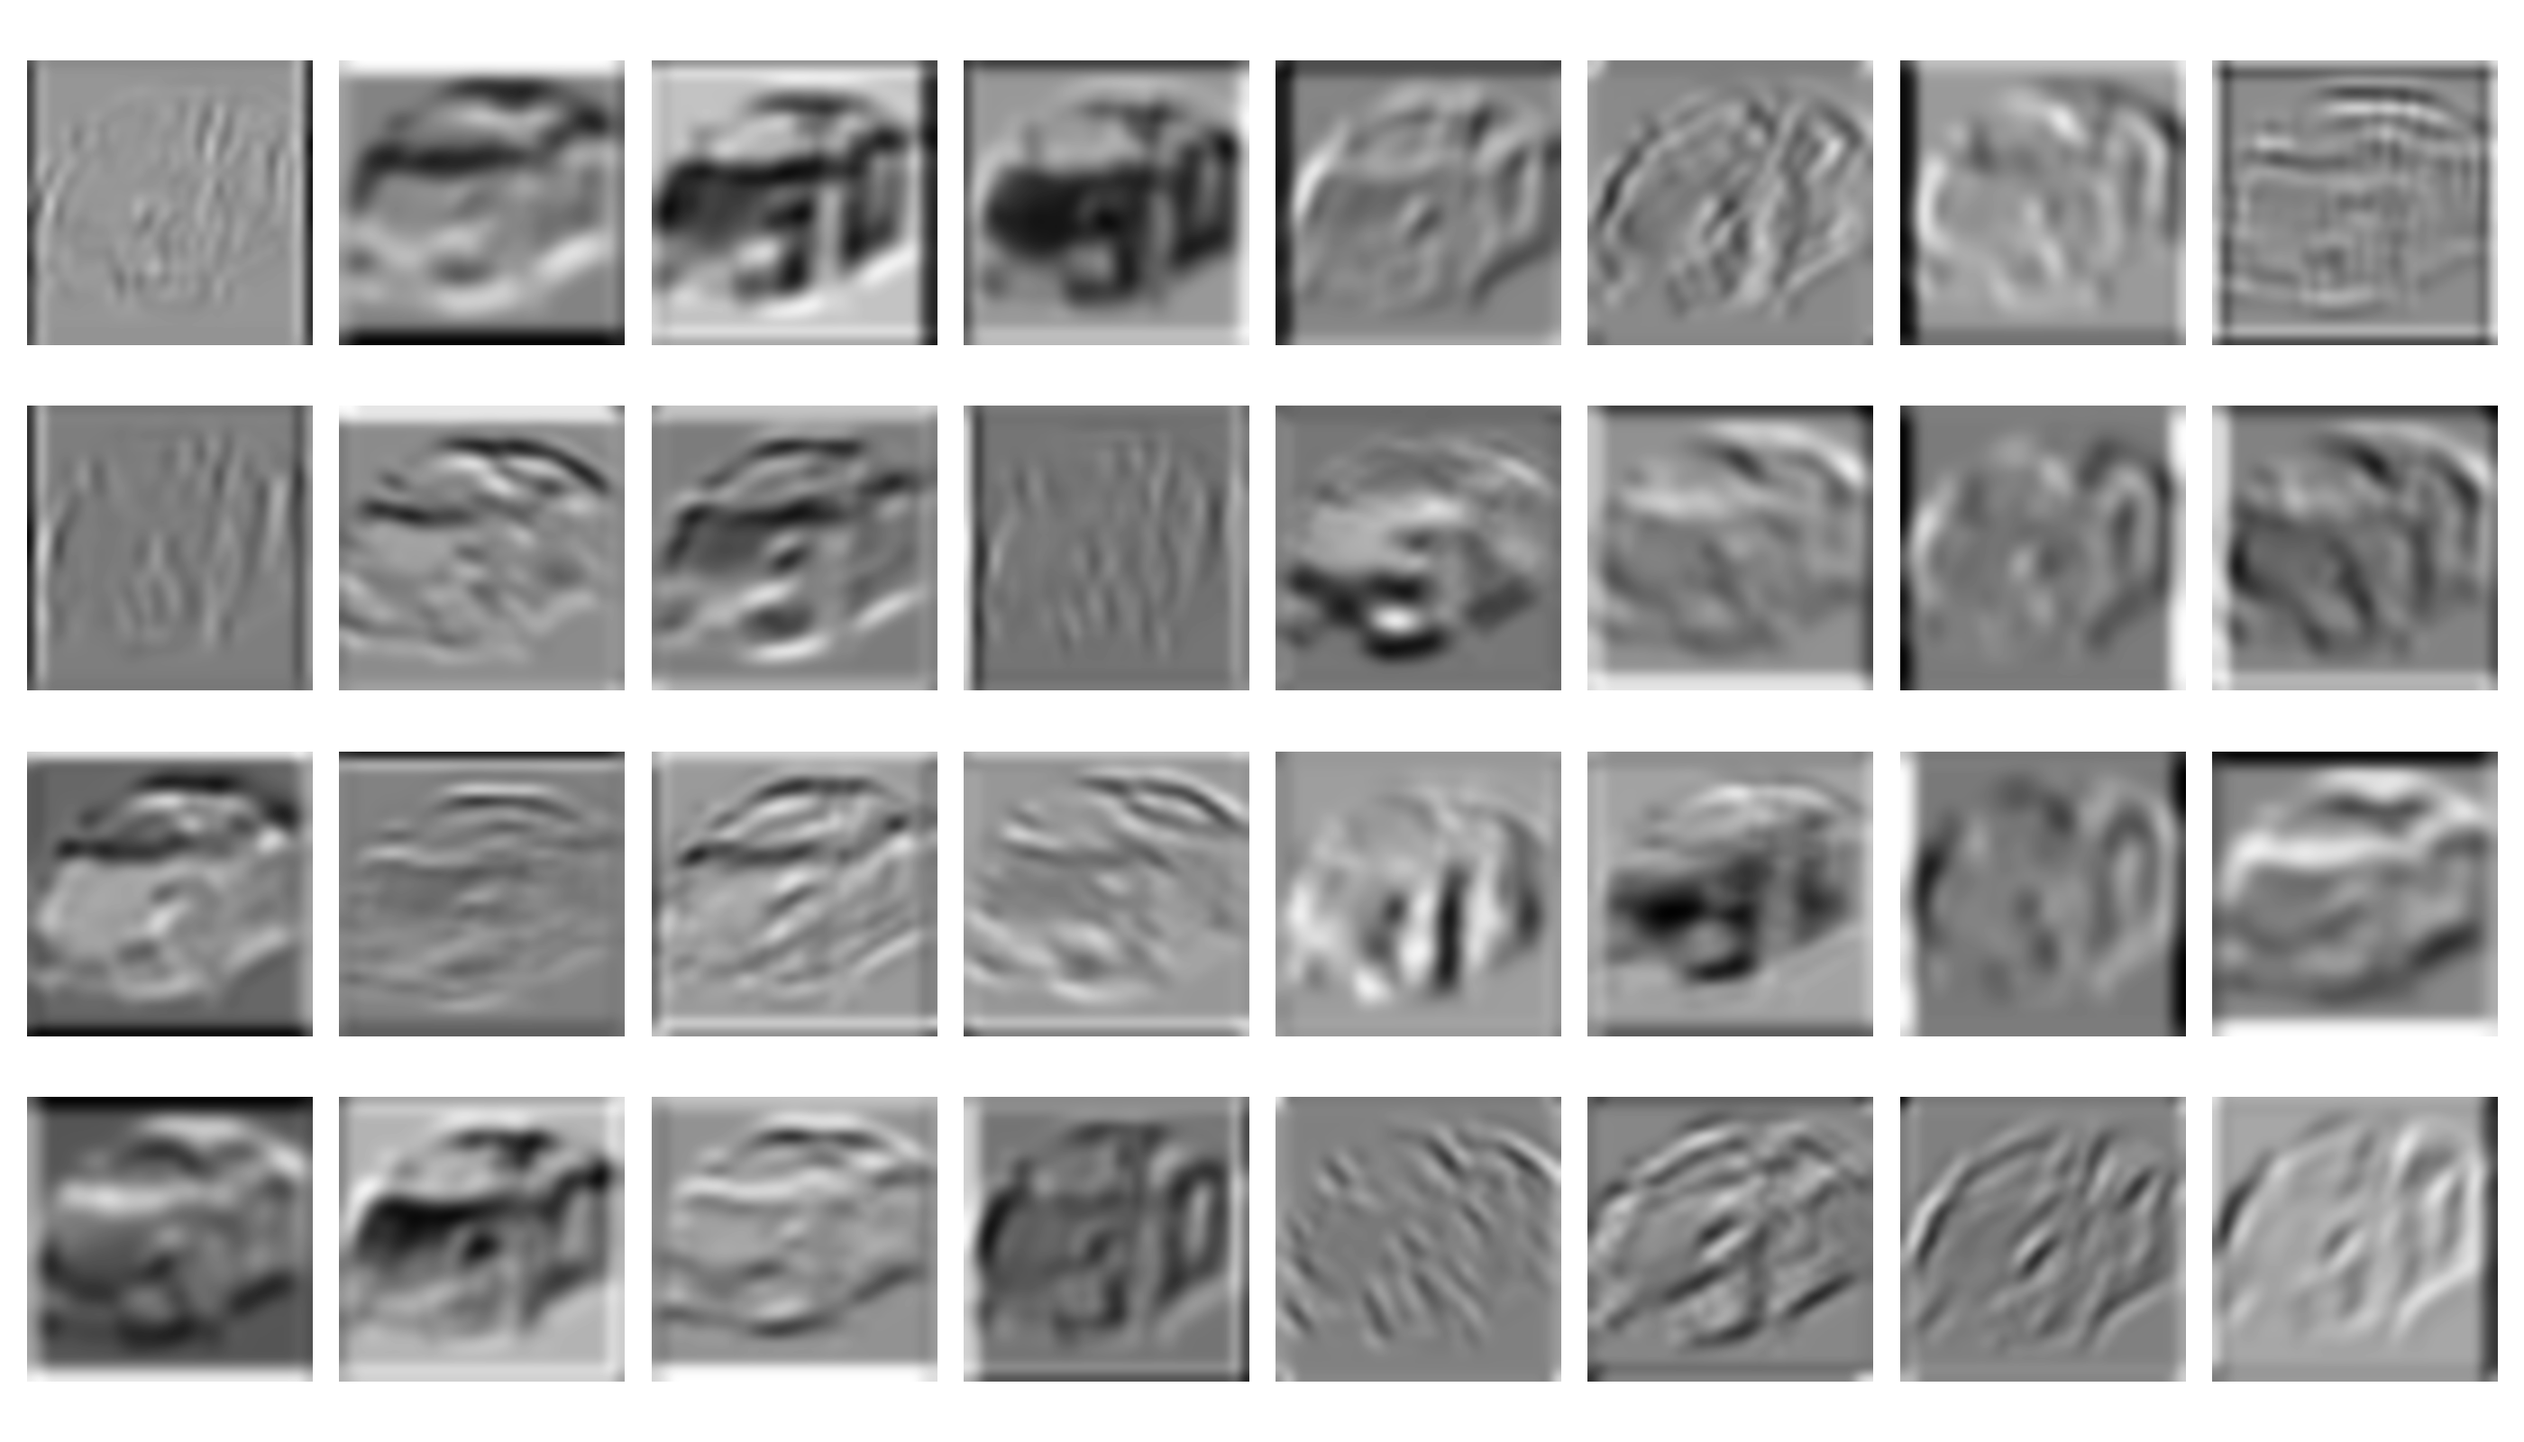
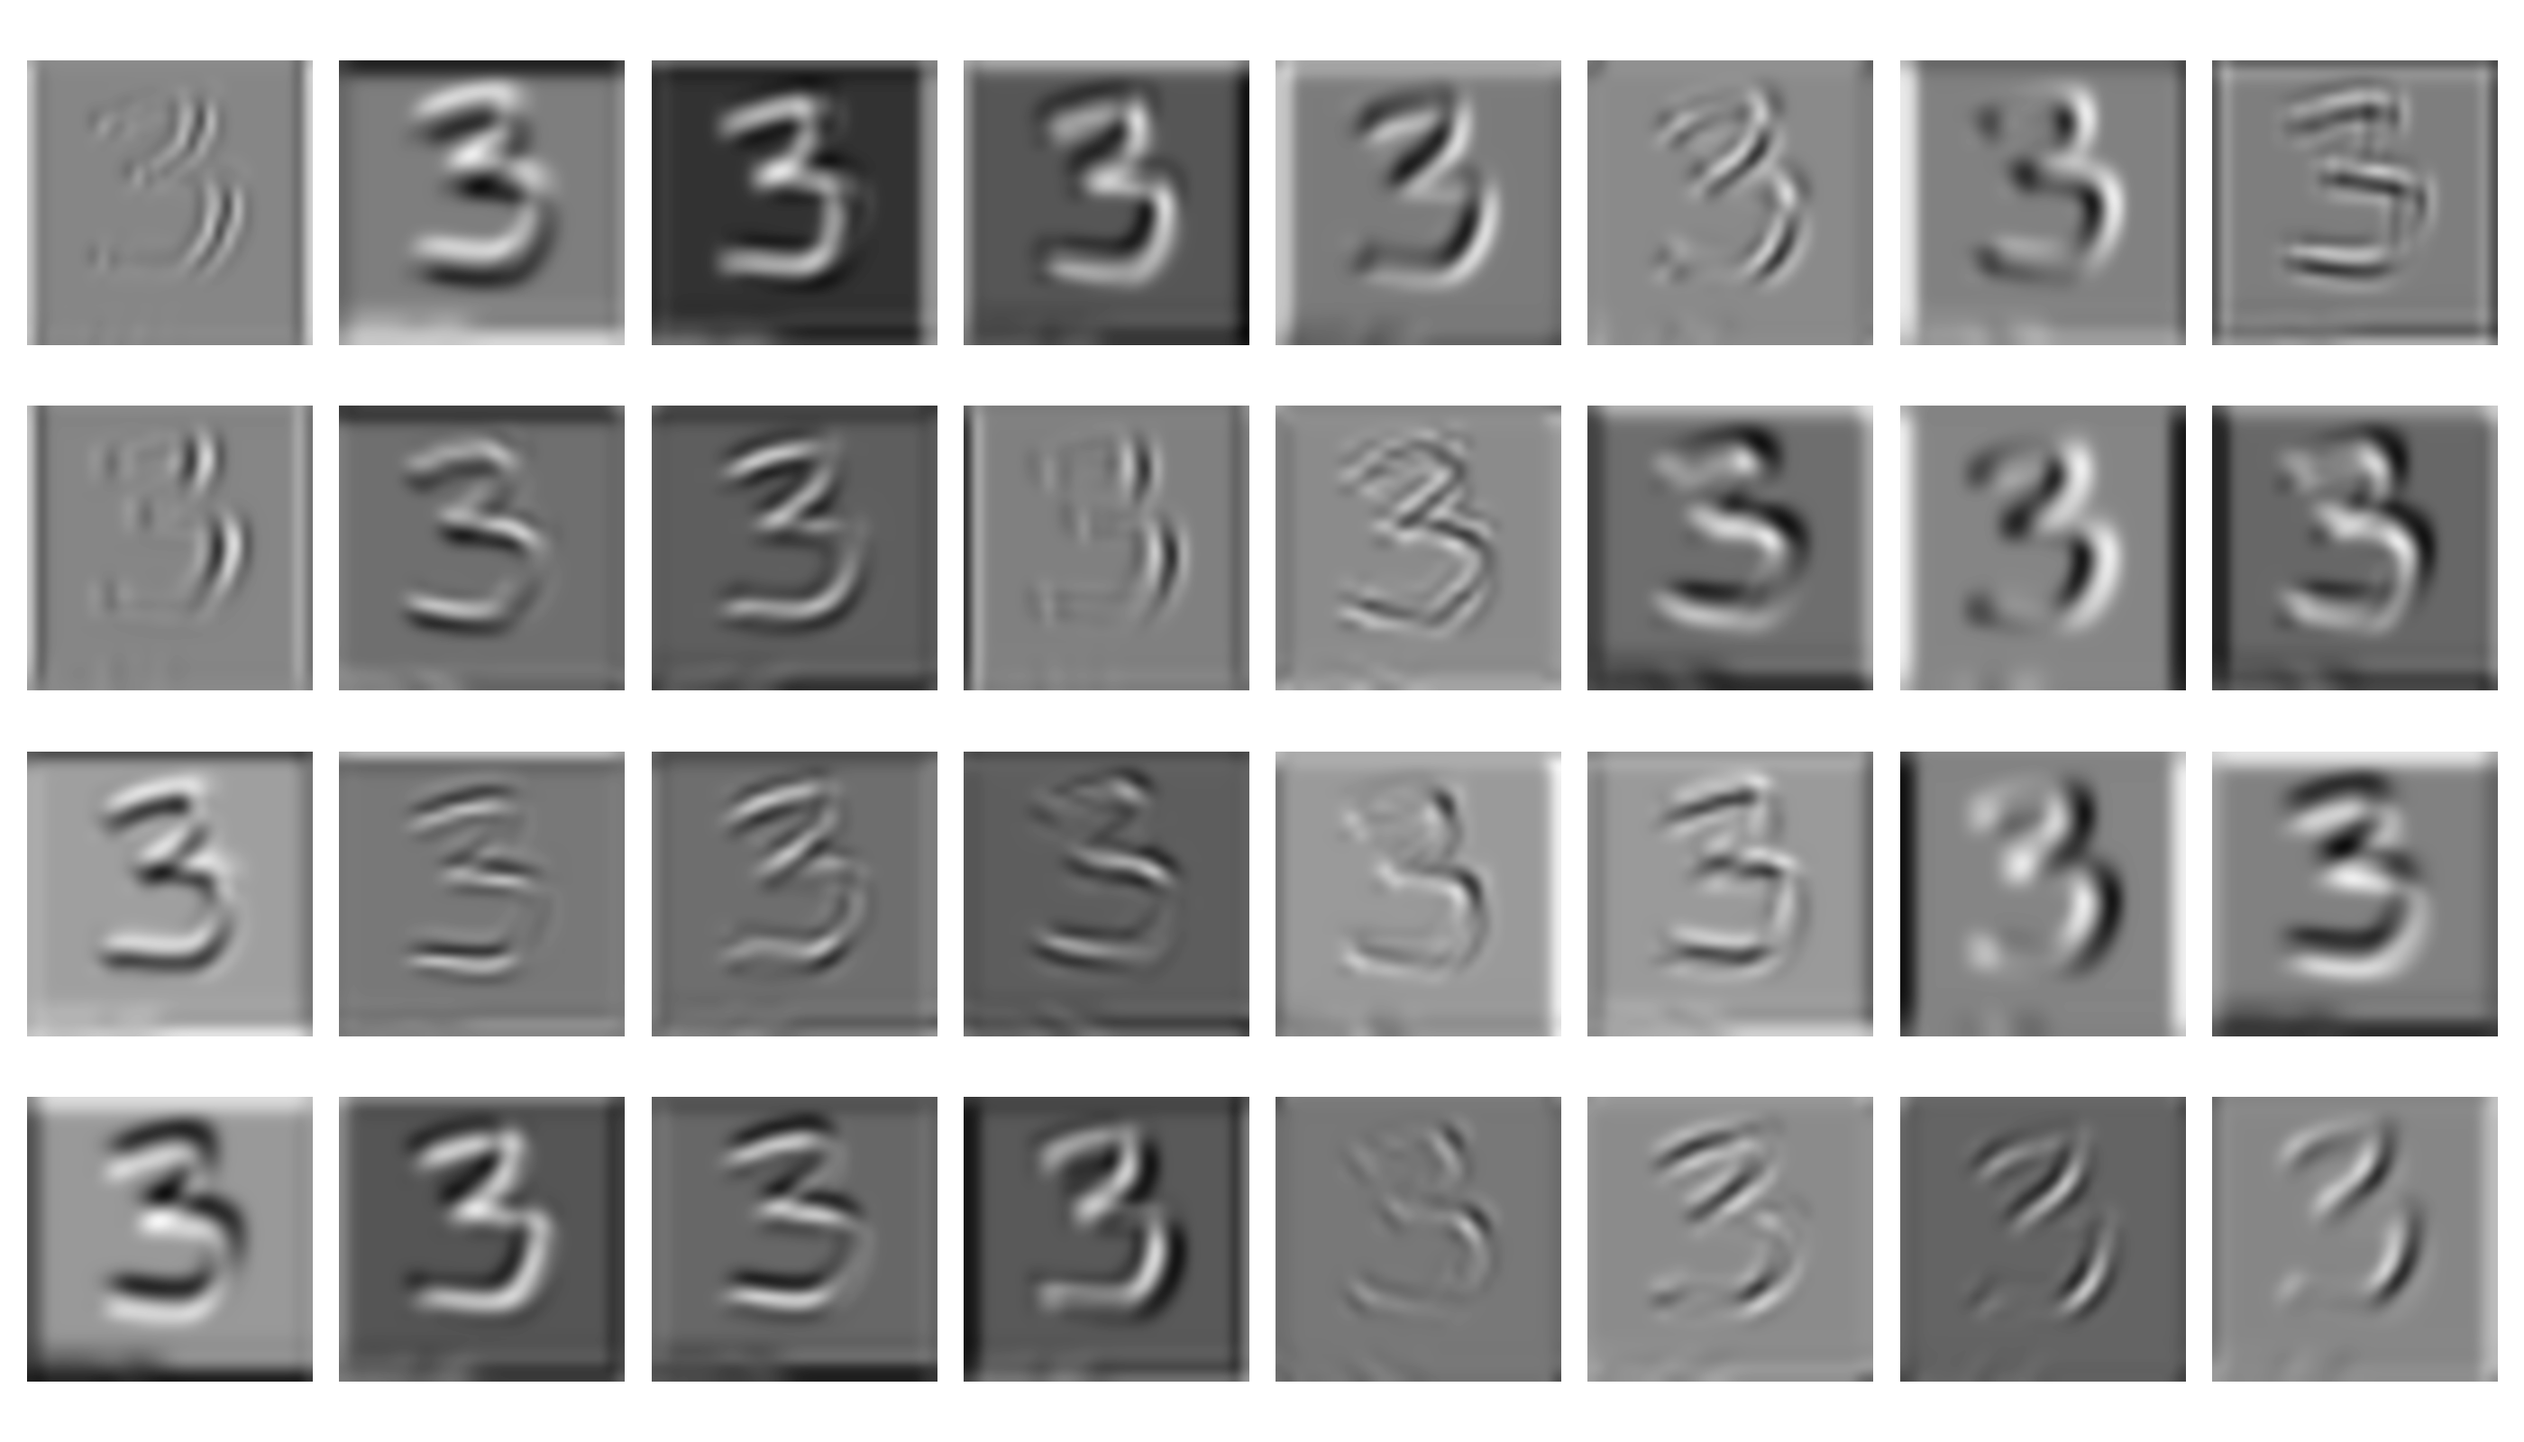
ocr technique experiment

diff --git a/EECE7398-Deep-Learning/Lab_1/CNNclassify.py b/EECE7398-Deep-Learning/Lab_1/CNNclassify.py
@@ -13,6 +13,7 @@ from torch.optim.lr_scheduler import ReduceLROnPlateau  # Learning rate schedule
 # torchvision
 from torchvision import datasets, transforms  # Datasets and data utilities
 # Image processing
+import pytesseract
 from PIL import Image, ImageOps  # Image processing
 # Visualization
 import matplotlib.pyplot as plt
@@ -162,7 +163,8 @@ def train_model(model, train_loader, test_loader, criterion, optimizer, schedule
             best_acc = val_acc
             torch.save(model.state_dict(), best_model_path)
 
-    print(f"Model trained on the {dataset_name} dataset with best test accuracy: {best_acc:.2f}% saved in file: {best_model_path}.")
+    print(
+        f"Model trained on the {dataset_name} dataset with best test accuracy: {best_acc:.2f}% saved in file: {best_model_path}.")
 
 
 # -------------------- Dataset Utilities --------------------
@@ -221,7 +223,6 @@ def load_dataset(dataset_name, batch_size, means, stds):
 
 # -------------------- Image Utilities --------------------
 def preprocess_image(image_path, dataset_name, mean=None, std=None):
-
     if dataset_name == 'mnist':
         image = Image.open(image_path).convert("L")
         image_np = np.array(image)
@@ -289,7 +290,7 @@ def visualize_first_conv_layer(conv1_output, dataset_name):
     plt.close()
 
 
-# -------------------- Model utilities --------------------
+# -------------------- Inference utilities --------------------
 
 def load_saved_model(model_class, num_classes, in_channels, model_dir, dataset_name, device):
     model_filename = f"{dataset_name}_trained_model.pth"
@@ -301,15 +302,29 @@ def load_saved_model(model_class, num_classes, in_channels, model_dir, dataset_n
     return model
 
 
-# -------------------- CLI --------------------
+def contains_digits(image_path):
+    image = Image.open(image_path).convert("L")  # Convert to grayscale
 
-def determine_dataset(image_path):
-    image = Image.open(image_path)
+    # Use pytesseract to extract text from the image
+    text = pytesseract.image_to_string(image, config='digits')
 
-    if image.mode == 'RGB':
-        return 'cifar'
-    elif image.mode == 'L':  # Grayscale image
+    print(text)
+
+    # Check if the extracted text contains digits
+    if any(char.isdigit() for char in text):
+        return True
+    return False
+
+
+def determine_model_to_load(image_path):
+    # Use OCR to detect digits
+    if contains_digits(image_path):
         return 'mnist'
+    else:
+        return 'cifar'
+
+
+# -------------------- CLI --------------------
 
 def main():
     epilog = """Usage examples:
@@ -374,14 +389,12 @@ def main():
         model_dir = "model"
         device = torch.device('cuda' if torch.cuda.is_available() else 'cpu')
 
-        dataset = 'cifar'
-        input_channels, num_classes, means, stds, dataset_labels = get_dataset_info(dataset)
-        model = load_saved_model(CNNClassifier, num_classes, input_channels, model_dir, dataset, device)
-
         for img_file in args.image_file:
-            image_path = img_file
-            predicted_label = test_single_image(model, image_path, device, dataset, means, stds, dataset_labels)
-            print(f"Prediction result: {predicted_label}")
+            dataset = determine_model_to_load(img_file)
+            #input_channels, num_classes, means, stds, dataset_labels = get_dataset_info(dataset)
+            #model = load_saved_model(CNNClassifier, num_classes, input_channels, model_dir, dataset, device)
+            #predicted_label = test_single_image(model, img_file, device, dataset, means, stds, dataset_labels)
+            #print(f"Prediction result: {predicted_label}")
 
 
 if __name__ == '__main__':
